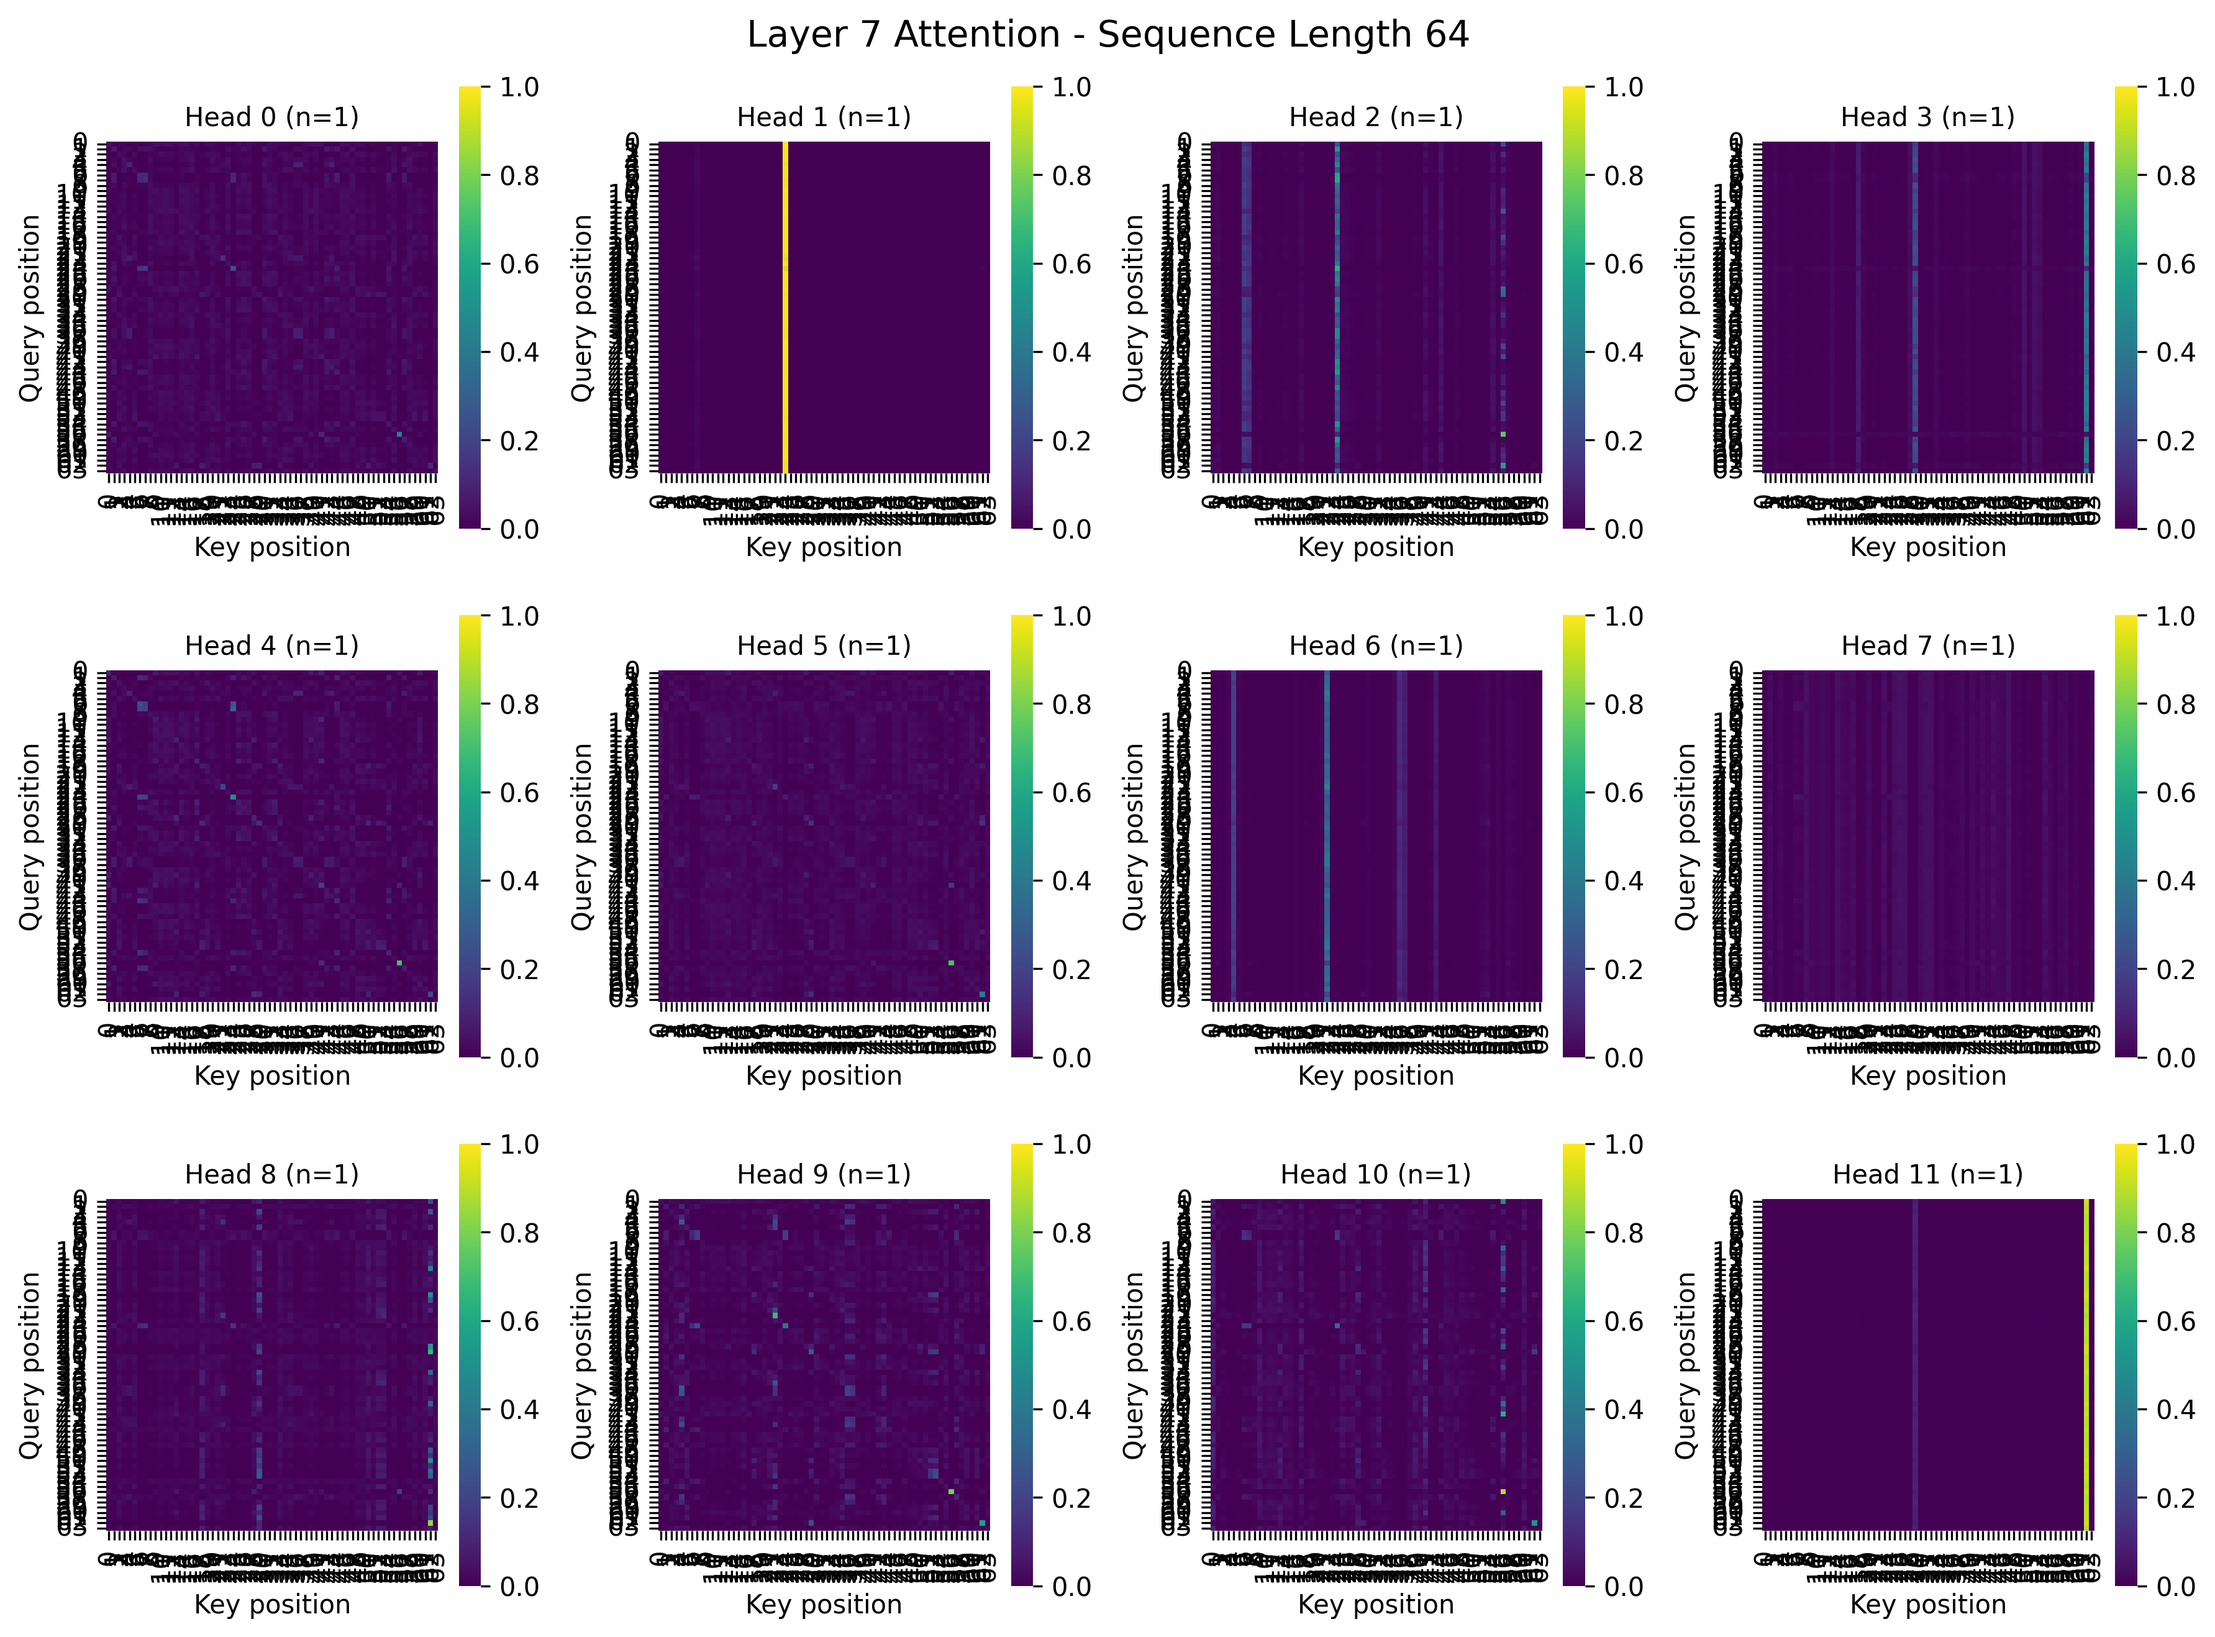
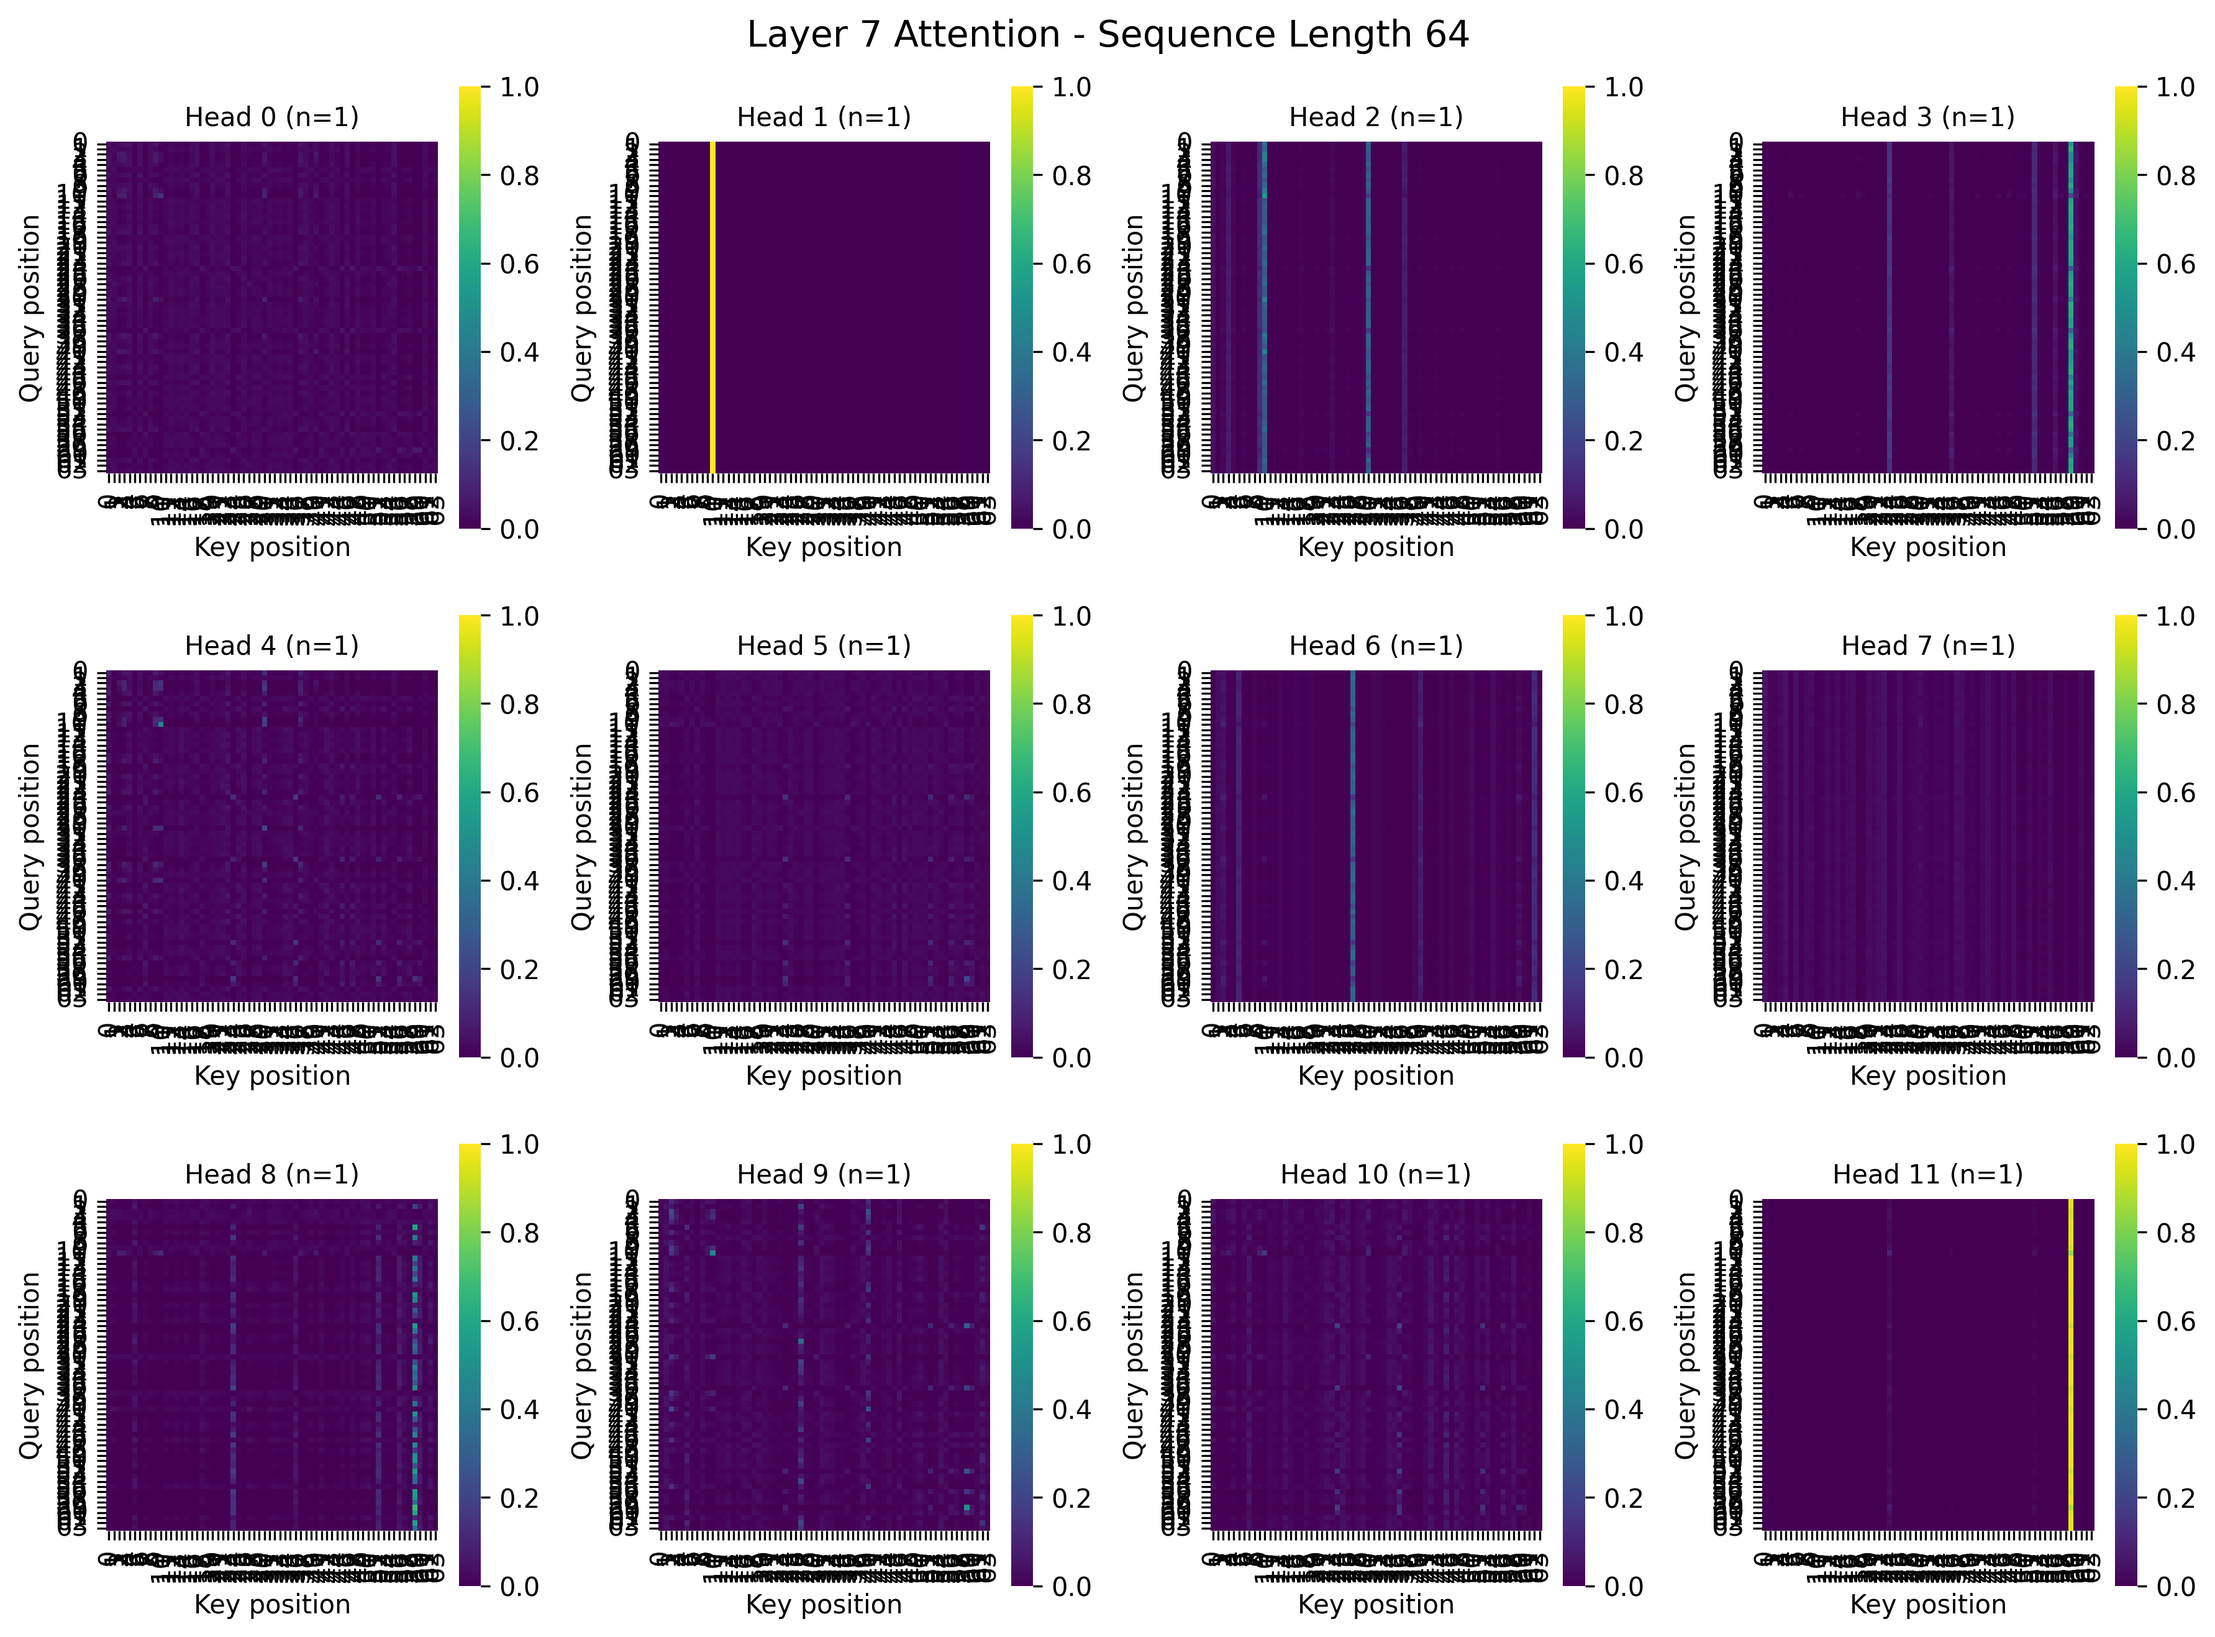
split stuff

diff --git a/interp/inference_replogle_split.py b/interp/inference_replogle_split.py
@@ -40,22 +40,23 @@ sys.path.append(str(project_root))
 sys.path.append(str(project_root / "vci_pretrain"))
 
 # Import model class directly
-from models.pert_sets import PertSetsPerturbationModel
+from models.pertsets import PertSetsPerturbationModel
 
 MODEL_DIR = Path(
-    "/large_storage/ctc/userspace/dhruvgautam/gpt/tahoe_vci_1.4.4_70m/gpt_fold1"
+    # "/large_storage/ctc/userspace/aadduri/preprint/replogle_vci_1.5.2_cs64/fold1"
+    "/large_storage/ctc/userspace/rohankshah/preprint/replogle_gpt_31043724/hepg2"
 )
 DATA_PATH = Path(
-    "/large_storage/ctc/userspace/aadduri/datasets/tahoe_45_ct_vci_1.4.2/plate1.h5"
+    "/large_storage/ctc/ML/state_sets/replogle/processed.h5"
 )
 CELL_SET_LEN = 512   
 CONTROL_SAMPLES = 50 
-LAYER_IDX = 7
-FIG_DIR = Path(__file__).resolve().parent / "figures" / "layer7_attention_gpt"
+LAYER_IDX = 0
+FIG_DIR = Path(__file__).resolve().parent / "figures" / "replogle_split" 
 FIG_DIR.mkdir(parents=True, exist_ok=True)
 
 # Load model directly from checkpoint
-checkpoint_path = MODEL_DIR / "checkpoints" / "step=10000.ckpt"
+checkpoint_path = MODEL_DIR / "checkpoints" / "last.ckpt" # "step=step=104000-val_loss=val_loss=0.0472.ckpt"
 
 if not checkpoint_path.exists():
     # Try other common checkpoint names
@@ -68,7 +69,7 @@ if not checkpoint_path.exists():
         raise FileNotFoundError(f"Could not find checkpoint in {MODEL_DIR}/checkpoints/")
 
 logger.info(f"Loading model from checkpoint: {checkpoint_path}")
-model = PertSetsPerturbationModel.load_from_checkpoint(str(checkpoint_path))
+model = PertSetsPerturbationModel.load_from_checkpoint(str(checkpoint_path), strict=False)
 model.eval()  # turn off dropout
 
 # Configure attention outputs
@@ -102,8 +103,18 @@ print(f"Model cell_sentence_len: {model.cell_sentence_len}")
 adata_full = sc.read_h5ad(str(DATA_PATH))
 logger.info("Using full dataset shape: %s", adata_full.shape)
 
+# Debug: Explore the AnnData structure
+logger.info("=== AnnData Structure Debug ===")
+logger.info(f"Observation columns (adata.obs.columns): {list(adata_full.obs.columns)}")
+logger.info(f"Variable columns (adata.var.columns): {list(adata_full.var.columns)}")
+logger.info(f"Observation matrices (adata.obsm.keys()): {list(adata_full.obsm.keys())}")
+logger.info(f"Unstructured annotations (adata.uns.keys()): {list(adata_full.uns.keys())}")
+if hasattr(adata_full, 'layers') and adata_full.layers:
+    logger.info(f"Data layers (adata.layers.keys()): {list(adata_full.layers.keys())}")
+logger.info("=== End Debug ===\n")
+
 # Determine embedding key - typically "X_vci" for VCI embeddings or "X_hvg" for HVG expression
-embed_key = "X_vci_1.4.2"  # Try VCI embeddings first
+embed_key = "X_vci_1.5.2_4"  # Try VCI embeddings first
 if embed_key not in adata_full.obsm:
     embed_key = "X_hvg"  # Fallback to HVG
     if embed_key not in adata_full.obsm:
@@ -118,8 +129,8 @@ else:
 
 # Find control perturbation
 control_pert = "DMSO_TF_24h"  # Default control
-if "drugname_drugconc" in adata_full.obs.columns:
-    drugname_counts = adata_full.obs["drugname_drugconc"].value_counts()
+if "gene" in adata_full.obs.columns:
+    drugname_counts = adata_full.obs["gene"].value_counts()
     # Look for common control names
     for potential_control in ["DMSO_TF_24h", "non-targeting", "control", "DMSO"]:
         if potential_control in drugname_counts.index:
@@ -192,7 +203,7 @@ logger.info(
 
 # Direct model forward pass with 512 cells (256 of each cell type)
 # Get available cell types and select the two most abundant ones
-cell_type_counts = adata_full.obs["cell_name"].value_counts()
+cell_type_counts = adata_full.obs["cell_type"].value_counts()
 logger.info("Available cell types: %s", list(cell_type_counts.index))
 
 # Select the two most abundant cell types
@@ -200,21 +211,21 @@ celltype1, celltype2 = cell_type_counts.index[:2]
 logger.info(f"Selected cell types: {celltype1} ({cell_type_counts[celltype1]} available), {celltype2} ({cell_type_counts[celltype2]} available)")
 
 # Get control cells for each cell type
-cells_type1 = adata_full[(adata_full.obs["drugname_drugconc"] == control_pert) & 
-                        (adata_full.obs["cell_name"] == celltype1)].copy()
-cells_type2 = adata_full[(adata_full.obs["drugname_drugconc"] == control_pert) & 
-                        (adata_full.obs["cell_name"] == celltype2)].copy()
+cells_type1 = adata_full[(adata_full.obs["gene"] == control_pert) & 
+                        (adata_full.obs["cell_type"] == celltype1)].copy()
+cells_type2 = adata_full[(adata_full.obs["gene"] == control_pert) & 
+                        (adata_full.obs["cell_type"] == celltype2)].copy()
 
 logger.info(f"Available cells - {celltype1}: {cells_type1.n_obs}, {celltype2}: {cells_type2.n_obs}")
 
-# Sample cells - always use 512 total cells (256 per cell type)
-cell_sentence_len = 512  # Hardcoded to always use 512 cells
+# Sample cells - always use 64 total cells (32 per cell type)
+cell_sentence_len = 64  # Hardcoded to always use 64 cells
 logger.info(f"Using fixed cell_sentence_len: {cell_sentence_len}")
 logger.info(f"Model was trained with cell_sentence_len: {model.cell_sentence_len}")
 
-# Use 512 cells total, split evenly between two cell types  
-n_cells_per_type = 256  # 256 cells per cell type
-total_cells = 512  # 512 total cells
+# Use 64 cells total, split evenly between two cell types  
+n_cells_per_type = 32  # 32 cells per cell type
+total_cells = 64  # 64 total cells
 
 if cells_type1.n_obs >= n_cells_per_type and cells_type2.n_obs >= n_cells_per_type:
     # Sample cells
@@ -228,7 +239,7 @@ if cells_type1.n_obs >= n_cells_per_type and cells_type2.n_obs >= n_cells_per_ty
     combined_batch = ad.concat([sampled_type1, sampled_type2], axis=0)
     
     logger.info(f"Created combined batch with {combined_batch.n_obs} cells")
-    logger.info(f"Cell type distribution: {combined_batch.obs['cell_name'].value_counts().to_dict()}")
+    logger.info(f"Cell type distribution: {combined_batch.obs['cell_type'].value_counts().to_dict()}")
     
     # Get embeddings and prepare batch manually
     device = next(model.parameters()).device
@@ -256,13 +267,14 @@ if cells_type1.n_obs >= n_cells_per_type and cells_type2.n_obs >= n_cells_per_ty
     
     # Create batch dictionary - reshape for padded format
     batch = {
-        "basal": X_embed,  # (512, embed_dim)
-        "pert": pert_tensor,  # (512, pert_dim)
-        "pert_name": pert_names
+        "ctrl_cell_emb": X_embed,  # (64, embed_dim) - basal/control cell embeddings
+        "pert_emb": pert_tensor,  # (64, pert_dim) - perturbation embeddings
+        "pert_name": pert_names,
+        "batch": torch.zeros((1, cell_sentence_len), device=device)
     }
     
-    logger.info(f"Batch shapes - basal: {batch['basal'].shape}, pert: {batch['pert'].shape}")
-    logger.info(f"Running single forward pass with {n_cells} cells ({n_cells_per_type} per cell type)")
+    logger.info(f"Batch shapes - ctrl_cell_emb: {batch['ctrl_cell_emb'].shape}, pert_emb: {batch['pert_emb'].shape}")
+    logger.info(f"Running single forward pass with {n_cells} cells of type {celltype1}")
     
     # Single forward pass using padded=True
     with torch.no_grad():
@@ -321,8 +333,8 @@ for seq_len in sorted(attention_by_length.keys()):
         
         if len(attention_by_length[seq_len][h]) > 0:
             sns.heatmap(
-                attn_head, square=True, cbar=True, cmap='viridis', 
-                xticklabels=range(seq_len), yticklabels=range(seq_len),
+                attn_head, square=True, cbar=True, cmap='viridis',
+                xticklabels=False, yticklabels=False,
                 vmin=0, vmax=1
             )
             plt.xlabel("Key position")
@@ -340,7 +352,6 @@ for seq_len in sorted(attention_by_length.keys()):
     plt.savefig(fig_path, dpi=300, bbox_inches='tight')
     plt.close()
     logger.info("Saved attention heatmaps for length %d → %s", seq_len, fig_path)
-
 # Create a summary plot showing attention patterns across all lengths
 if len(attention_by_length) > 1:
     # Find the most common non-trivial sequence length for the summary
@@ -357,7 +368,7 @@ if len(attention_by_length) > 1:
                 avg_attn = stacked.mean(0).numpy()
                 sns.heatmap(
                     avg_attn, square=True, cbar=True, cmap='viridis',
-                    xticklabels=False, yticklabels=False, vmin=0, vmax=1
+                    xticklabels=[''], yticklabels=[''], vmin=0, vmax=1
                 )
                 n_matrices = len(attention_by_length[most_common_length][h])
                 plt.title(f"Head {h} (len={most_common_length}, n={n_matrices})", fontsize=10)
